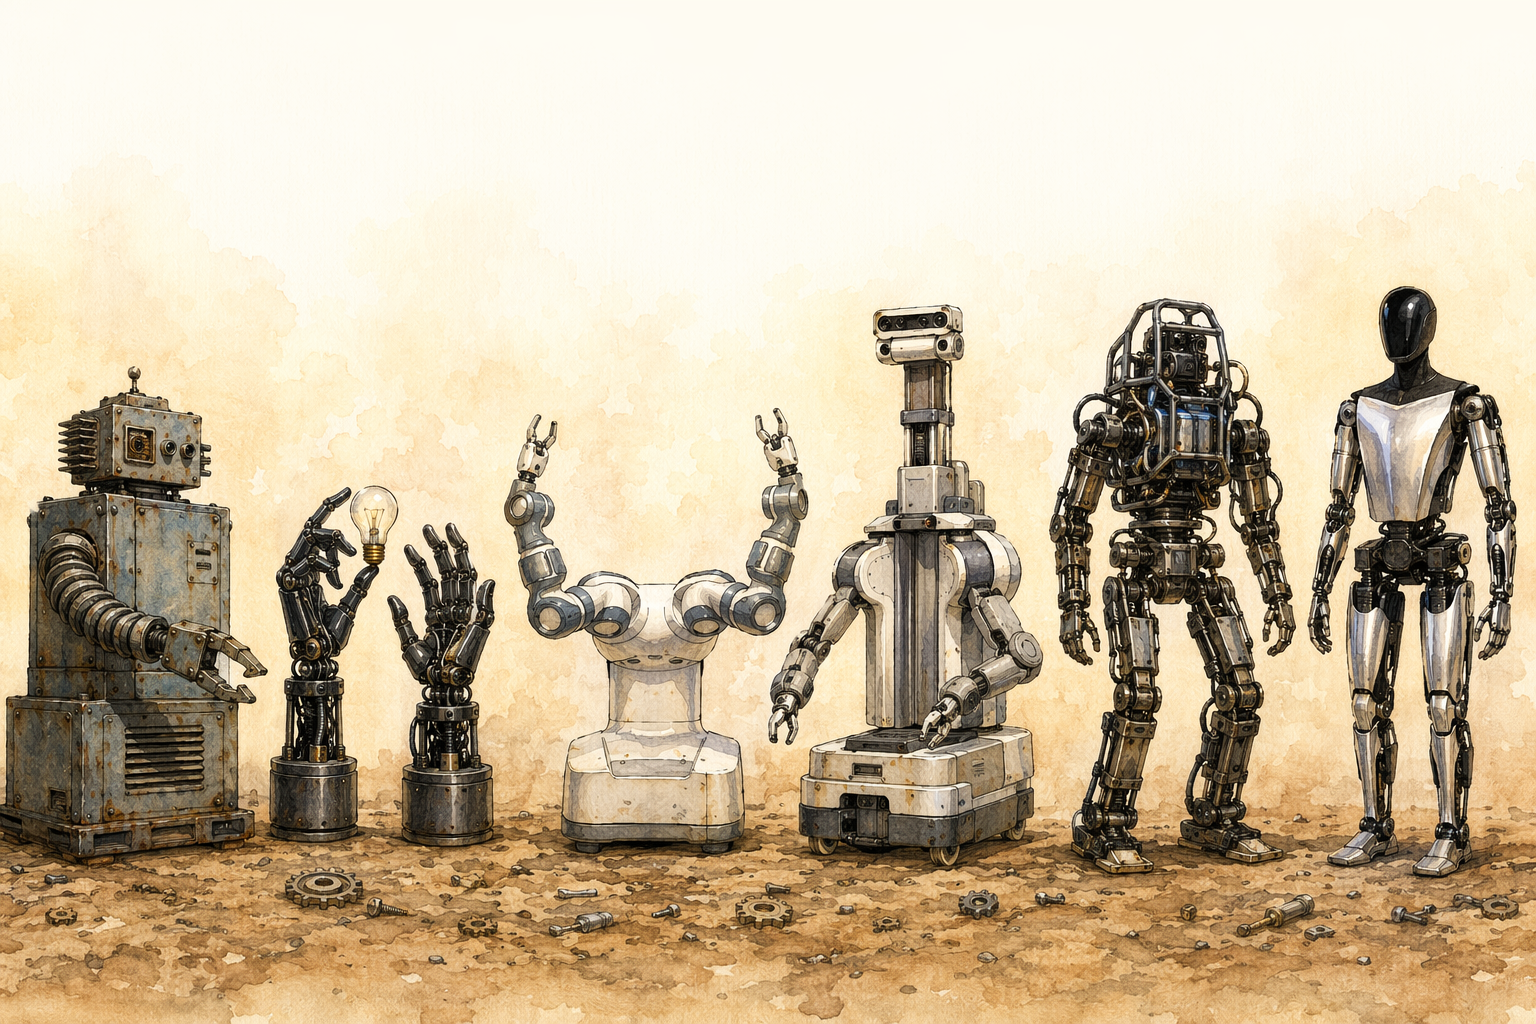
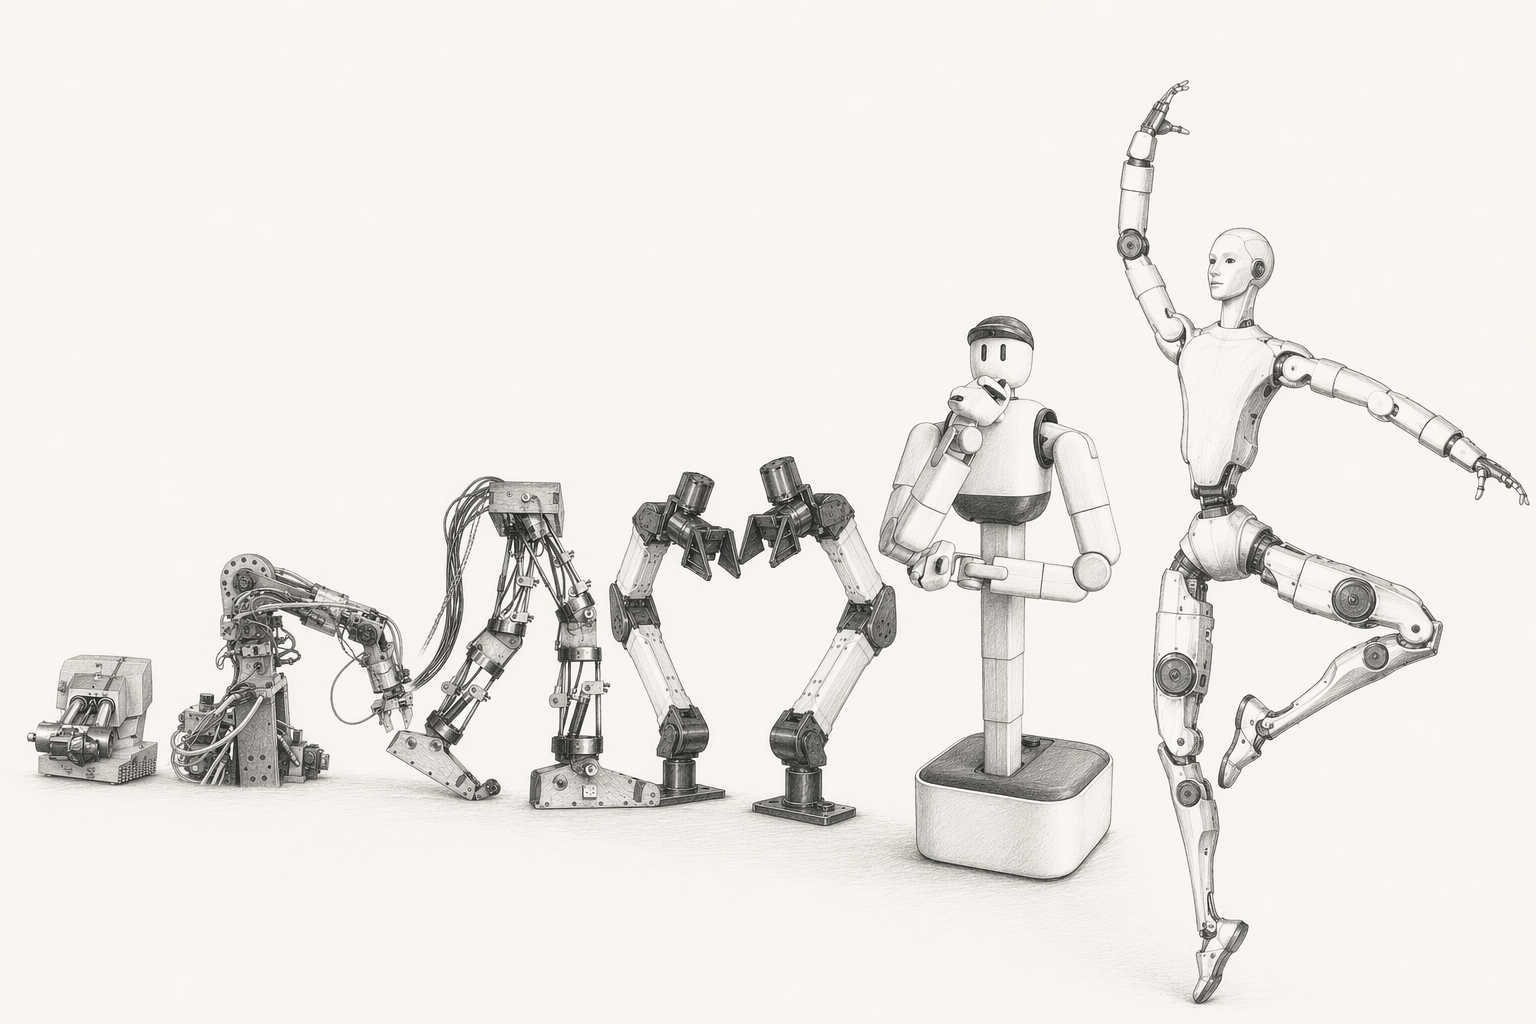
Switch landing to monochrome pencil evolution hero
Replace the storybook-watercolor hero with the chosen pencil "march of
progress": six robot figures evolving low-to-high, far-to-near — a simple
machine, an industrial arm, walking legs, dual arms, a torso humanoid, and a
full humanoid — composed from the project's own six pencil illustrations
(depth-recession layout, Azure gpt-image-2). Re-palette the whole site to
monochrome (warm pencil-paper background, black/grey ink, black buttons — no
color), remove the hero caption, and update the provenance note and README.

diff --git a/website/index.html b/website/index.html
@@ -8,12 +8,12 @@
 <link rel="preconnect" href="https://api.fontshare.com" crossorigin>
 <link href="https://api.fontshare.com/v2/css?f[]=satoshi@300,400,500,700&display=swap" rel="stylesheet">
 <style>
-/* ============ tokens — from posttrain-arena globals.css ============ */
+/* ============ tokens — posttrain-arena structure, monochrome pencil palette ============ */
 :root{
-  --paper:#fbf9f2; --paper-2:#f1eee2; --paper-3:#ece7d9; --card:#fefef9;
-  --forest:#4f6c52; --forest-deep:#3c5440; --forest-ink:#1c1a14;
-  --clay:#8f5a45; --ink:#232019; --ink-soft:#5e5446;
-  --line:#e6e1d6; --line-strong:#c8c0b1; --gold:#b89358;
+  --paper:#f6f3ea; --paper-2:#edeade; --paper-3:#e4e1d3; --card:#fcfbf6;
+  --forest:#1a1a1a; --forest-deep:#000000; --forest-ink:#111111;
+  --clay:#555555; --ink:#222222; --ink-soft:#666666;
+  --line:#e2dfd4; --line-strong:#c6c3b6; --gold:#8a8a8a;
   --font:"Satoshi",ui-sans-serif,system-ui,sans-serif;
   --gutter:clamp(20px,5vw,72px);
   --text-hero:clamp(2.3rem,4.8vw,4.3rem);
@@ -68,9 +68,6 @@ nav.primary a:hover{color:var(--forest)}
 .btn-solid:hover{background:var(--forest-deep)}
 .btn-ghost{background:transparent;color:var(--forest-ink);border:1px solid var(--line-strong)}
 .btn-ghost:hover{border-color:var(--forest);color:var(--forest)}
-.hero-cap{position:relative;z-index:2;margin-top:auto;font-size:.8125rem;color:var(--ink-soft)}
-.hero-cap span{display:inline-block;padding:.35rem .65rem;border-radius:2px;
-  background:color-mix(in srgb,var(--paper) 74%,transparent);backdrop-filter:blur(3px);-webkit-backdrop-filter:blur(3px)}
 @media(max-width:480px){
   .hero{min-height:clamp(520px,74vh,640px);padding-top:clamp(96px,18vh,140px)}
   .hero-title{font-size:clamp(2.5rem,12.5vw,3.4rem)}
@@ -176,7 +173,6 @@ footer{background:var(--paper-2);border-top:1px solid var(--line);padding-block:
         </div>
       </div>
     </div>
-    <div class="wrap hero-cap"><span>From a single arm to a humanoid — an early service robot · dexterous robotic hands · ABB YuMi · Willow Garage PR2 · Boston Dynamics Atlas · Tesla Optimus.</span></div>
   </section>
 
   <!-- ============ THE IDEA ============ -->
@@ -256,7 +252,7 @@ footer{background:var(--paper-2);border-top:1px solid var(--line);padding-block:
         <a href="https://www.benchflow.ai" target="_blank" rel="noopener">BenchFlow</a>
       </div>
     </div>
-    <p class="fsmall">© 2026 BenchFlow · GenesisBench 2.0. Hero figures drawn from real, publicly-demonstrated robots — an early service robot, dexterous robotic hands, ABB YuMi, Willow Garage PR2, Boston Dynamics Atlas, and Tesla Optimus.</p>
+    <p class="fsmall">© 2026 BenchFlow · GenesisBench 2.0. Hero: the evolution of robot embodiment, drawn in pencil — from a simple machine to arms, legs, and a full humanoid.</p>
   </div>
 </footer>
 </body>

diff --git a/website/README.md b/website/README.md
@@ -1,8 +1,8 @@
 # GenesisBench — landing page
 
-Single-file static site (`index.html` + `assets/hero.png`). Layout, type, and palette follow
-posttrain.com (source: `benchflow-ai/posttrain-arena` — Satoshi, warm paper `#fbf9f2`,
-forest-green primary, terracotta accent).
+Single-file static site (`index.html` + `assets/hero.png`). Structure and type follow
+posttrain.com (source: `benchflow-ai/posttrain-arena` — Satoshi, 1280px container, terrain-style
+hero), re-paletted to **monochrome**: warm pencil-paper background, black/grey ink, no color.
 
 ```bash
 cd website && python3 -m http.server 8000   # http://localhost:8000/
@@ -10,19 +10,11 @@ cd website && python3 -m http.server 8000   # http://localhost:8000/
 
 ## Hero artwork
 
-A hand-drawn storybook-watercolor "march of progress" of robot embodiment (generated with Azure
-`gpt-image-2`), full-bleed behind the hero like posttrain's terrain. Each figure is drawn from a
-real, publicly-demonstrated machine:
+A pencil "march of progress" of robot embodiment — six figures evolving low→high, far→near,
+left→right: a simple machine → an industrial arm → walking legs → dual arms → a torso humanoid →
+a full humanoid. Composed from the project's own six pencil illustrations with Azure `gpt-image-2`
+(depth-recession layout), full-bleed behind the hero like posttrain's terrain.
 
-| # | Figure | Real robot |
-|---|--------|-----------|
-| 1 | early boxy service robot with bellows arm | early industrial/service robots (Unimate lineage, 1961→) |
-| 2 | two dexterous robotic hands (one holding a bulb) | Shadow Dexterous Hand-class anthropomorphic hands |
-| 3 | dual-arm headless torso, arms raised | ABB YuMi (IRB 14000, 2015) |
-| 4 | torso + sensor head on wheeled base | Willow Garage PR2 (2010) |
-| 5 | caged bipedal humanoid, exposed actuators | Boston Dynamics Atlas (2013) |
-| 6 | sleek humanoid, black faceplate, silver chest | Tesla Optimus (2023) |
-
-The page content (idea → Provision/Train/Evaluate/Transfer → frameworks → research) follows the
-repo README: GenesisBench 1.0 — language intelligence → physical intelligence; 2.0 — world
-intelligence.
+Page content follows the repo README: the idea (Provision → Train → Evaluate → Transfer),
+frameworks (Genesis, Isaac Sim, RoboCasa, MuJoCo), research background. GenesisBench 1.0 —
+language intelligence → physical intelligence; 2.0 — world intelligence.